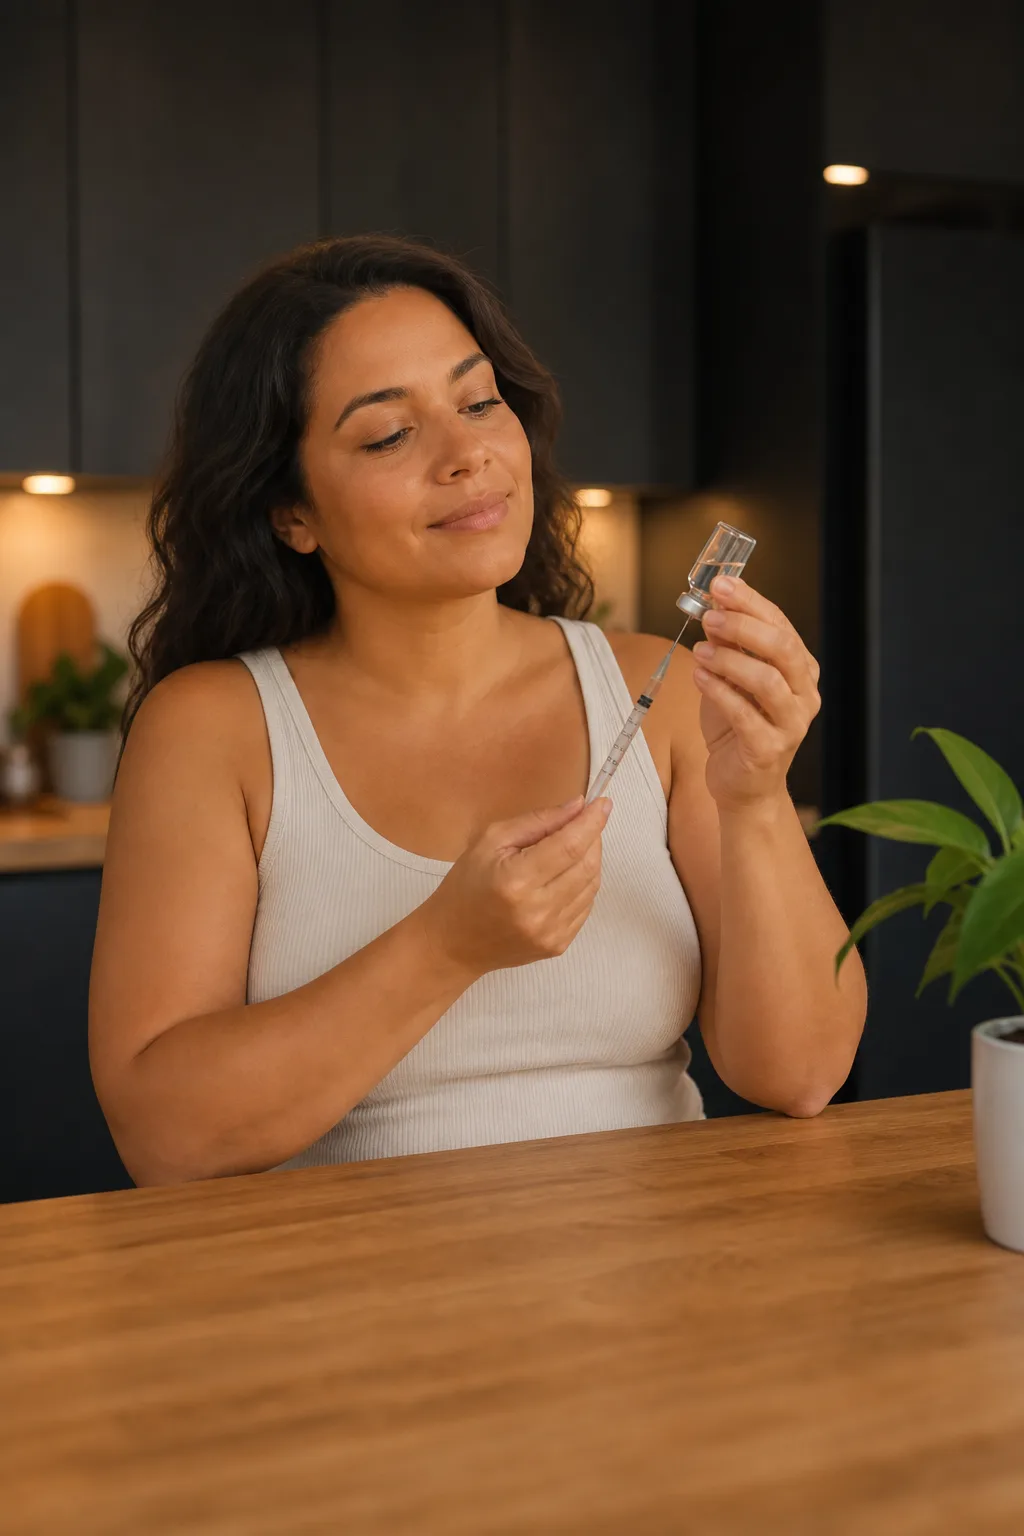
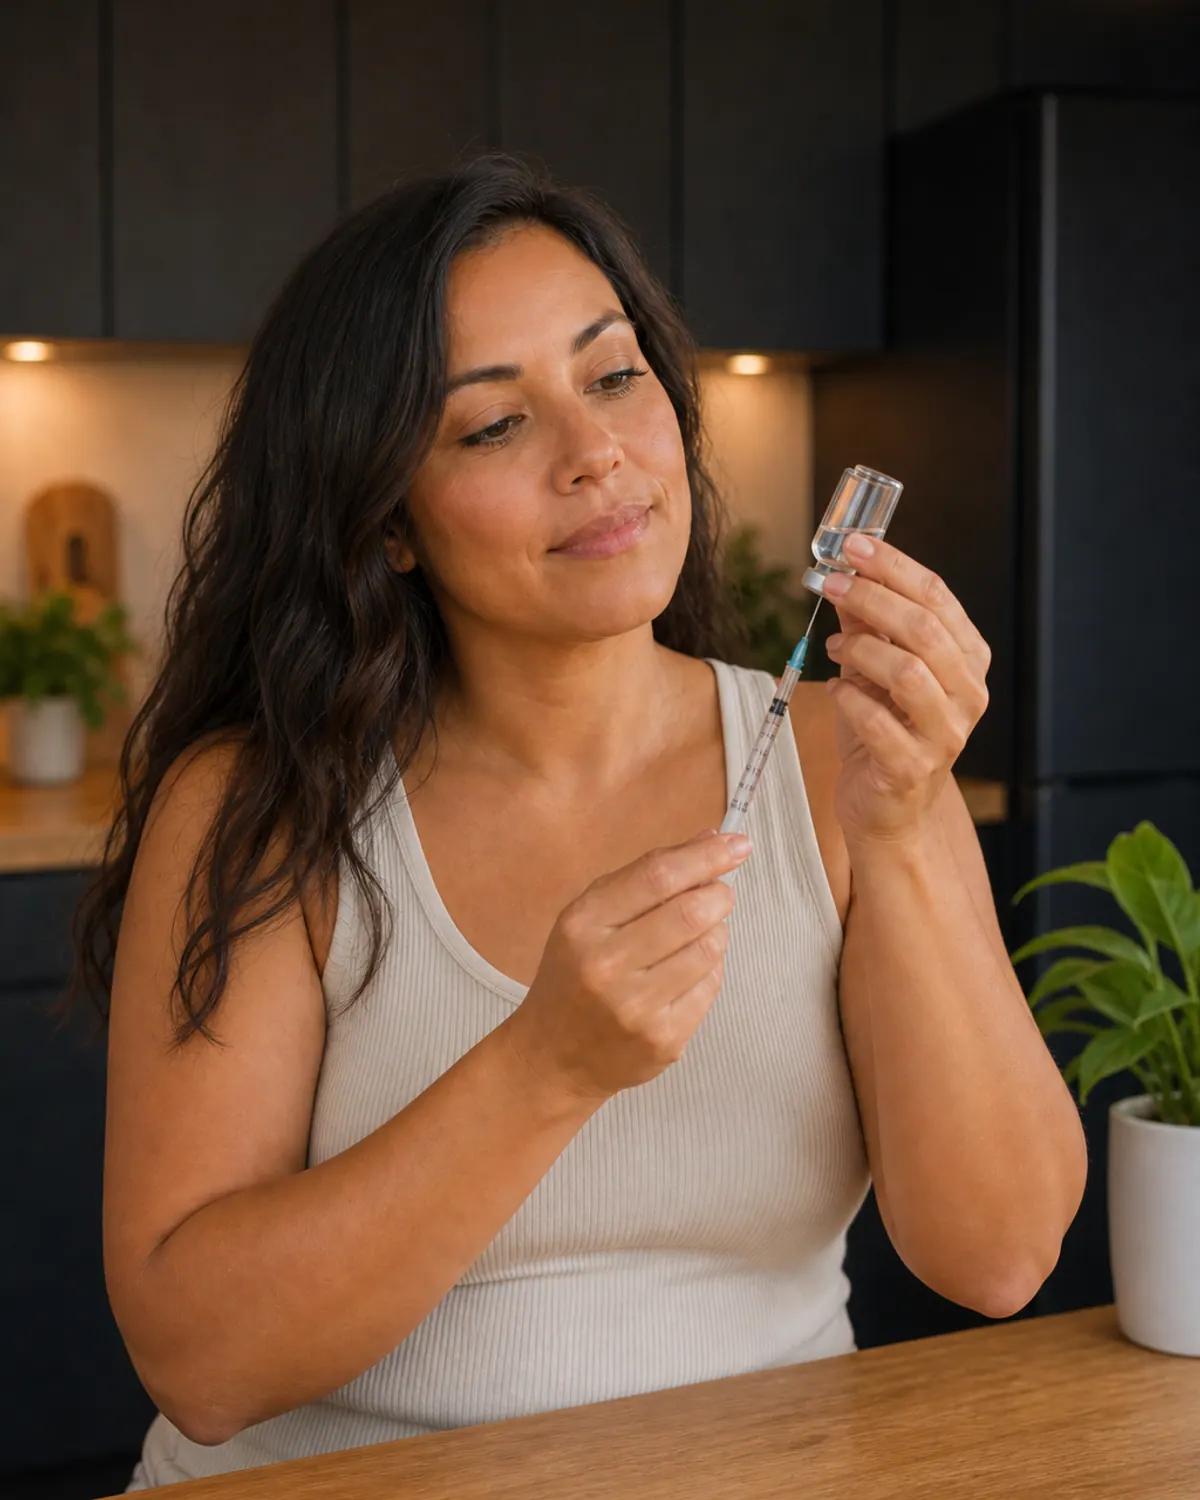
Refresh treatments week cards with Yucca-like photos and tighter mobile framing.

diff --git a/app/globals.css b/app/globals.css
@@ -4977,13 +4977,17 @@ a {
 
 .tx-photo-card__media {
   position: relative;
-  aspect-ratio: 5 / 6;
-  background: #0b132b;
+  aspect-ratio: 4 / 5;
+  background: #efe8dc;
   overflow: hidden;
 }
 
 .tx-photo-card__media--tall {
-  aspect-ratio: 4 / 5;
+  aspect-ratio: 3 / 4;
+}
+
+.tx-photo-card__media img {
+  object-fit: cover !important;
 }
 
 .tx-photo-card__step,
@@ -5040,6 +5044,10 @@ a {
   border-color: rgba(248, 250, 252, 0.18);
   box-shadow: none;
   color: #f8fafc;
+}
+
+.tx-photo-grid--dark .tx-photo-card__media {
+  background: #0b132b;
 }
 
 .tx-photo-grid--dark .tx-photo-card:hover article {
@@ -5142,12 +5150,20 @@ a {
 }
 
 @media (max-width: 899px) {
+  .tx-weeks .tx-shell,
+  .tx-journey .tx-shell,
+  .tx-why .tx-shell,
+  .tx-science .tx-shell {
+    padding-right: 0;
+  }
+
   .tx-photo-grid {
     display: flex;
     overflow-x: auto;
     scroll-snap-type: x mandatory;
-    gap: 0.9rem;
-    padding-bottom: 0.5rem;
+    gap: 0.85rem;
+    margin-top: 1.5rem;
+    padding: 0 1.15rem 0.85rem 0;
     -webkit-overflow-scrolling: touch;
     scrollbar-width: none;
   }
@@ -5157,8 +5173,39 @@ a {
   }
 
   .tx-photo-card {
-    flex: 0 0 min(84vw, 300px);
+    flex: 0 0 min(78vw, 310px);
     scroll-snap-align: start;
+  }
+
+  .tx-photo-card article {
+    box-shadow: 4px 5px 0 #0b132b;
+  }
+
+  .tx-photo-card__media {
+    aspect-ratio: 4 / 5;
+    min-height: 240px;
+  }
+
+  .tx-photo-card__media--tall {
+    aspect-ratio: 3 / 4;
+    min-height: 260px;
+  }
+
+  .tx-photo-card__body {
+    padding: 1rem 0.95rem 1.15rem;
+  }
+
+  .tx-photo-card__body h3 {
+    font-size: 1.05rem;
+  }
+
+  .tx-photo-card__body p {
+    font-size: 0.9rem;
+    line-height: 1.55;
+  }
+
+  .tx-photo-card:hover article {
+    transform: none;
   }
 }
 

diff --git a/components/TreatmentsFlow.tsx b/components/TreatmentsFlow.tsx
@@ -98,21 +98,21 @@ const weeks = [
     title: 'Your body is adjusting',
     body: 'You start on a low dose — intentionally. Treatment is introduced gradually so your body can adapt. Some people notice appetite changes early. Others take longer. Experiences vary and are not guaranteed.',
     image: '/images/unique/unique-week-1.webp',
-    focus: 'center 22%',
+    focus: 'center 28%',
   },
   {
     label: 'Week 4 → 12',
     title: 'The protocol starts to settle',
     body: 'As dosing continues under provider review, some people notice quieter food noise or earlier fullness. Others need more time or a dose adjustment. Individual responses vary and are not guaranteed.',
     image: '/images/unique/unique-week-2.webp',
-    focus: 'center 25%',
+    focus: 'center 18%',
   },
   {
     label: 'Month 3+',
     title: 'Calibrated to you',
     body: 'With how your body has responded, your provider can fine-tune your plan. The focus may shift from adjustment to consistency — always guided by clinical judgment, not outcome guarantees.',
     image: '/images/unique/unique-week-3.webp',
-    focus: 'center 20%',
+    focus: 'center 32%',
   },
 ]
 
